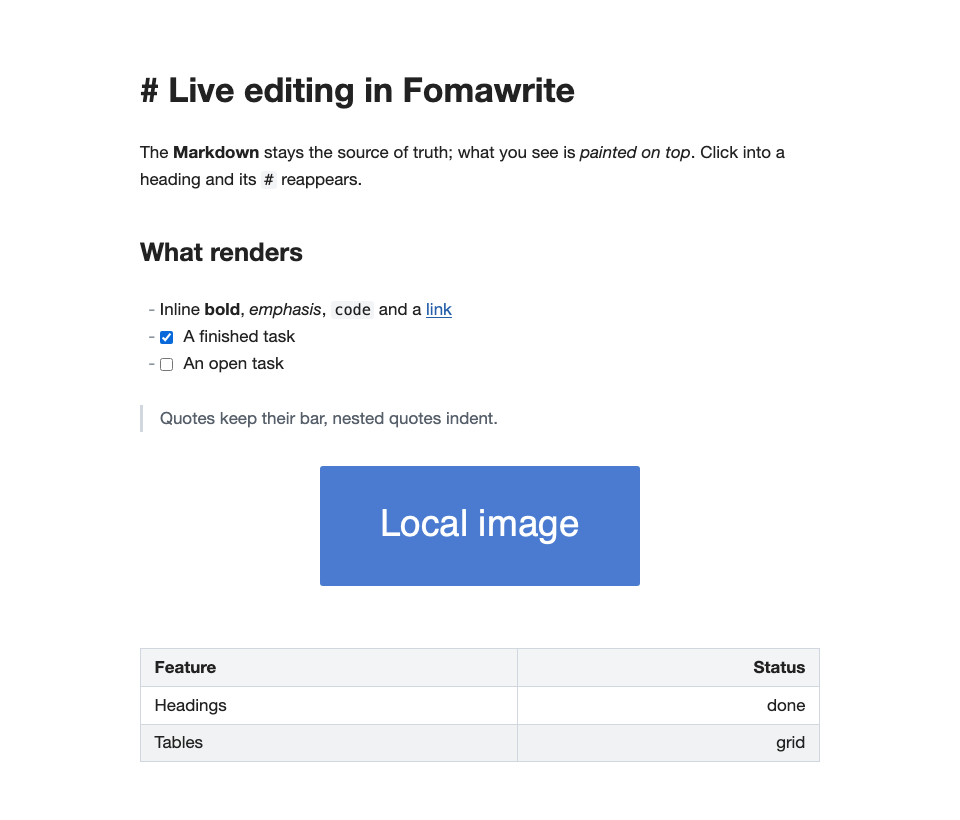
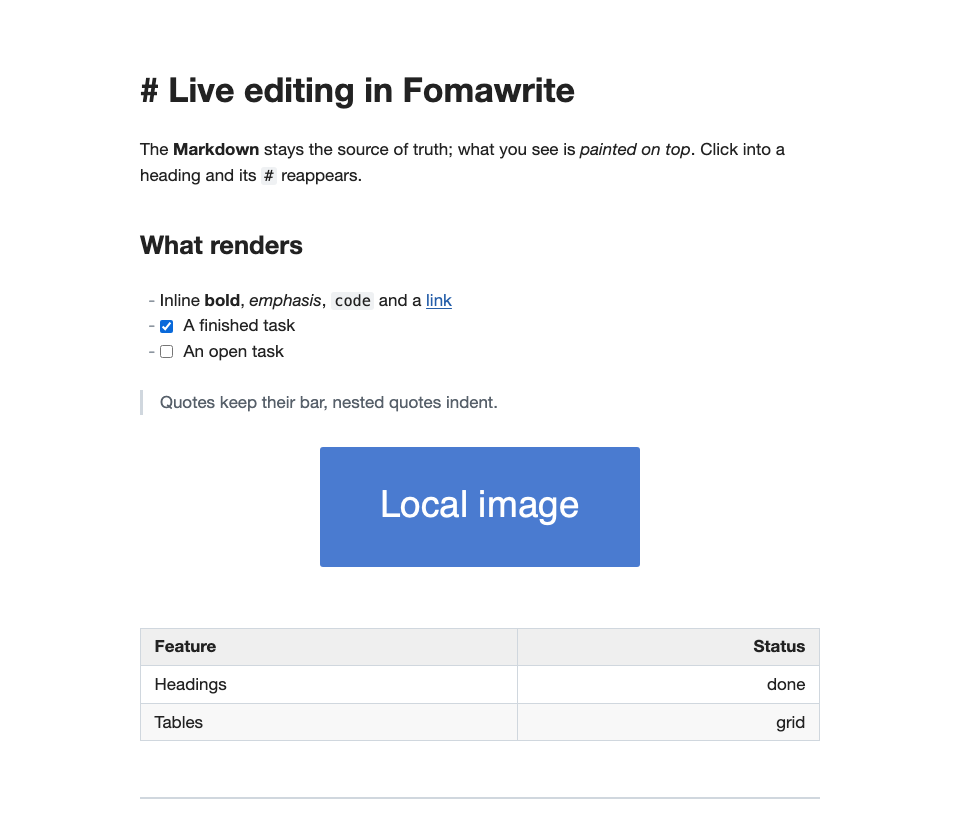
Cycles 137 and 138: Live theme fidelity, selection race, native harness; build 138 installed
137: review fixes for Cycle 136 (theme face and line height win in Live,
readability by measured background and WCAG contrast, exact mode keeps
mapped typography, tables full measure, revealed marks ignore theme
colour), ul/ol distinction, absolute sizes to em, quote spacing, a gallery
of every bundled Output Style with a contrast assertion, Live control opens
the Output Style menu, exact-theme command gated to Live.
138: Format/copy commands in Live ask the page for its current selection
(requestSelection/selectionReply) with per-document queueing and a
one-second fallback; theme-folder acceptance fixture creates its folder;
harness wrapper thresholds and resource list aligned.
Suite 212 Qt / 248 page; native document-views harness passes in full.

diff --git a/src/main.cpp b/src/main.cpp
@@ -145,7 +145,7 @@ int main(int argc, char *argv[]) {
     app.setOrganizationName(QStringLiteral("AndrewGray"));
     app.setOrganizationDomain(QStringLiteral("andrewjngray.github.io"));
     app.setApplicationDisplayName(QStringLiteral("Fomawrite"));
-    app.setApplicationVersion(QStringLiteral("0.3.0-dev33"));
+    app.setApplicationVersion(QStringLiteral("0.3.0-dev34"));
     const int documentCheck = app.arguments().indexOf(QStringLiteral("--check-document-views"));
     if (documentCheck >= 0) {
         const QString destination = app.arguments().value(documentCheck + 1);

diff --git a/research/overnight-2026-10-08/REPORT.md b/research/overnight-2026-10-08/REPORT.md
@@ -1,0 +1,43 @@
+# Overnight report — 8 October 2026
+
+Brief: run the next cycles we discussed; Fable plans, cheaper subagents build, a separate subagent reviews; install-first; a complete report by morning.
+
+## Outcome in one paragraph
+
+Three cycles landed and one build is installed: **build 138** (`0.3.0-dev34`) in `/Applications`, `dist/Fomawrite.app` and `dist/Fomawrite Dev.app`, all identical. Cycle 136 (Live follows the publishing theme, lighter) was built, reviewed, found wanting in two important ways, and fixed in Cycle 137; Cycle 138 fixed the Live selection race and the native theme-folder acceptance failures. The Qt suite is at 212, the page suite at 248, the native document-views harness passes in full for the first time since build 130, and CI is CI_STATUS. The Grammarly experiment and the Roam harness were not built: the first needs you at the keyboard, the second is still a Maybe and needs a token decision; both have notes ready.
+
+## What to try this morning (build 138 is installed)
+
+1. Open a document, switch to **Live**, and choose an Output Style from the right-hand pane. Live should take the theme's faces, colours, heading rules and quote styling but keep the editor's own column width and no decoration. Switch dark mode on: text should stay readable under every bundled style.
+2. **View → Live Follows Theme Exactly** (only enabled in Live): the theme's geometry comes back.
+3. In Live, the left footer control names the Output Style and opens the same theme menu as the right pane. Larger/Smaller act on Live too.
+4. Select a few words and immediately press ⌘B: the bold lands on what you selected, not the previous selection.
+
+## Cycle by cycle
+
+| Cycle | Built by | Reviewed by | Verdict → action |
+| --- | --- | --- | --- |
+| 136 Live follows the theme, lighter | two page agents (overlay; selector mapping) + host work by Fable | reviewer agent | Ship with fixes: host font beat a theme's body font; readability fill misfired on body-painted themes (Claude Like unreadable in dark); exact mode lost mapped typography; tables not full measure; revealed links kept theme underline; host nits. All fixed in 137. |
+| 137 Live theme fidelity | page agent (ul/ol, px→em, quote spacing, bundled-CSS robustness); fix agent for the 136 findings; gallery test by Fable | reviewer agent | **Do not ship** as first built: the seven basic presets were unreadable in dark Live (white `html` read through an opaque dark body), the revealed-link fix did not match the real DOM, dark table header under a light theme, missing `measureTheme` tests, cascade engine skipped `>`; exact-theme command gated only in the native menu. Second fix agent closed all of it; a WCAG contrast assertion on every gallery frame was red before (preset 0 dark: 1.01) and is green now. |
+| 138 Selection race and theme-folder checks | one Qt+page agent | reviewer agent | Ship with fixes: queued commands not invalidated on document swap; late reply clobbered the last cursor. Fixed by Fable with a bare-bridge test. Root cause of the harness failures: a fixture that assumed a folder the app deliberately stopped creating in Cycle 132; fixture fixed, app unchanged. |
+
+Records: [cycle-136](../cycle-136/README.md), [cycle-137](../cycle-137/README.md), [cycle-138](../cycle-138/README.md). Plan as written at 21:50: [PLAN.md](PLAN.md).
+
+## What the reviewers caught that tests had missed
+
+- A green suite with 16 gallery captures still hid unreadable dark presets, because the test only compared frames for difference. The fix was a contrast measurement on the captured pixels, which now guards every bundled style in both appearances.
+- A unit test on a fake DOM passed while the real DOM structure made the rule a no-op (revealed links). The replacement test is built from the real decoration output.
+- The page's own cascade test engine silently ignored child combinators, so an overlay rule could be asserted "applied" when it was never evaluated. It now parses `>` and throws on forms it cannot model.
+
+## Not done, and why
+
+- **Grammarly**: needs your account and eyes; ten-minute script in [grammarly-experiment.md](grammarly-experiment.md).
+- **Roam send-to-daily-note**: still a Maybe in IDEAS.md and there is no local Roam CLI or token path on this machine (the connector is a claude.ai one); feasibility and the decision you would need to make are in [roam-feasibility.md](roam-feasibility.md).
+- **Live by physical input**: still never done by a person. Build 138 is the one to try.
+
+## Process notes for you
+
+- Subagent spend: nine agents (five builders, three reviewers, one fix pass) at roughly 100–225k tokens each; Fable did planning, merges, host QML/C++ work, the gallery/contrast test, the 138 review fixes, docs and installs.
+- Two reviewers changed the outcome: without them build 137 would have shipped with unreadable dark presets and a revealed-link rule that did nothing. Keeping a separate reviewer per cycle is worth its cost.
+- One mistake of mine, caught by a reviewer: a worktree gitlink was committed twice before `.claude/` went into `.gitignore`. The second one is removed from the tree (it remains in history).
+- Open follow-ups recorded in STATUS.md: theme-set colours are not contrast-checked (a theme's own dim quote or link colour stays dim on a dark page); commands sent through other paths (undo, link panel) are not queued behind a pending selection request; Live typewriter and focus modes under the new table CSS were not visually checked.

diff --git a/ARCHITECTURE.md b/ARCHITECTURE.md
@@ -19,7 +19,7 @@ What Fomawrite is, in one line: an iA-Writer-style Source editor plus a Typora-s
 | Publishing: theme catalog and folder watching, memoized sanitized CSS, HTML/PDF generation, per-consumer async preview protocol and cache | [publisher.h](src/publisher.h), [publisher.cpp](src/publisher.cpp) | A real module since Cycle 133 (it replaced the `#include`d `backendpublishing.inc`). `Publisher` reads the document and output settings only through the `PublishingSource` interface that `Backend` implements, so publishing state cannot reach editing state. `Backend` keeps one-line forwarders (`backend.requestPublishingPreview`, `backend.publishingThemeId`, …) and relays `Publisher`'s signals under their old names; it also exposes `backend.publisher` for new callers. |
 | Top-level UI and commands | [Main.qml](src/Main.qml) (~3.2k lines), [NativeMenuBar.qml](src/NativeMenuBar.qml) (~0.5k), [WorkspaceCommands.qml](src/WorkspaceCommands.qml) | The native macOS menu bar now lives in `NativeMenuBar.qml` (Cycle 133); it is instantiated from `Main.qml`'s `Loader`, so it still resolves `win`, `backend`, the dialogs and panes through that context. `Main.qml` still holds the source editor (~800 lines), the dialogs, timers, and Markdown logic that belongs in C++ (`smartReturn`, `visualDiff`, link escaping; the [LinkSyntax.js](src/LinkSyntax.js) grammar is duplicated by a C++ regex kept in sync by hand). Remaining planned extractions: `SourceEditor.qml`, `WorkspaceSettings.qml`, one file per dialog. |
 | Pane geometry, headers/footers, visibility | [WorkspaceLayout.qml](src/WorkspaceLayout.qml), [WorkspaceHeader.qml](src/WorkspaceHeader.qml), [DocumentFooter.qml](src/DocumentFooter.qml), [WorkspaceFooter.qml](src/WorkspaceFooter.qml) | Left footer: Source / Live + writing appearance + editor zoom. Right footer: Web / PDF + Output Style + publishing zoom. Single / Split is a separate group. |
-| **Live** editing surface (Cycle 134) | [LiveEditorPane.qml](src/LiveEditorPane.qml), [editorbridge.h](src/editorbridge.h)/[.cpp](src/editorbridge.cpp), [src/editor/](src/editor/README.md) (TypeScript, CodeMirror 6, esbuild → committed `dist/editor.js`) | A CodeMirror 6 Markdown editor page hosted in a `WebEngineView` (`qrc:/editor/index.html`, strict CSP) and connected over `QWebChannel` through `EditorBridge`. While Live is active the page's document is canonical and `Backend::applyLiveChanges` mirrors its `{from,to,insert}` change lists into the `QTextDocument` byte-exactly; `Backend::forwardLiveChange` mirrors C++-side edits back. Presentation modes: Source (Manuscript/Editorial/Book/Code appearances, focus, typewriter) and Live (markers hidden until the caret enters; images via the host, task checkboxes, rules, highlighted fences, table grids, KaTeX math), themed by the same `#write` CSS as published output. Created lazily on first use via a `Loader`, then kept. Selected by `workspaceLayout.liveEditEnabled` / command `liveEditing`. |
+| **Live** editing surface (Cycle 134) | [LiveEditorPane.qml](src/LiveEditorPane.qml), [editorbridge.h](src/editorbridge.h)/[.cpp](src/editorbridge.cpp), [src/editor/](src/editor/README.md) (TypeScript, CodeMirror 6, esbuild → committed `dist/editor.js`) | A CodeMirror 6 Markdown editor page hosted in a `WebEngineView` (`qrc:/editor/index.html`, strict CSP) and connected over `QWebChannel` through `EditorBridge`. While Live is active the page's document is canonical and `Backend::applyLiveChanges` mirrors its `{from,to,insert}` change lists into the `QTextDocument` byte-exactly; `Backend::forwardLiveChange` mirrors C++-side edits back. Presentation modes: Source (Manuscript/Editorial/Book/Code appearances, focus, typewriter) and Live (markers hidden until the caret enters; images via the host, task checkboxes, rules, highlighted fences, table grids, KaTeX math), themed by the same `#write` CSS as published output. Created lazily on first use via a `Loader`, then kept. Selected by `workspaceLayout.liveEditEnabled` / command `liveEditing`. In Live the page follows the Output Style through a filtering overlay plus a selector mapping (`src/editor/src/livetheme.ts`, `thememap.ts`; View → Live Follows Theme Exactly turns the filter off). Format and copy commands in Live ask the page for its current selection first (`requestSelection` / `selectionReply`, queued per document with a one-second fallback) rather than trusting the debounced `cursorChanged`; the Q_INVOKABLE return value then means "accepted". |
 | **Right** publishing pane (read-only output) | [PublishingPreview.qml](src/PublishingPreview.qml) | Instantiated in `Main.qml` as **`previewPane`**; in `ExportHub.qml` as `exportHubPreviewPane`. See §5. |
 | Source syntax/structure | [markdownhighlighter.cpp](src/markdownhighlighter.cpp), [markdownextensions.cpp](src/markdownextensions.cpp), [EditorMutations.js](src/EditorMutations.js) | Source always shows all syntax; four appearances (Manuscript, Editorial, Book, Code). |
 | Semantic HTML / browser PDF | [publishinghtml.cpp](src/publishinghtml.cpp), [publishingpdf.cpp](src/publishingpdf.cpp), [MD4C 0.5.3](src/vendor/md4c/README.md) | MD4C → HTML; raw HTML escaped; `javascript:`/`data:` hrefs rejected; images inlined as `data:` URLs through `PublishingHtml::ImageCache`; Chromium renders Web and PDF for the pane, Export Hub and files. |

diff --git a/STATUS.md b/STATUS.md
@@ -4,10 +4,10 @@ This is the only place the current review build is recorded. Update it at the en
 
 | | |
 | --- | --- |
-| **Current review build** | `0.3.0-dev32` / macOS `0.3.0 (136)` |
-| **Last completed cycle** | 136 — Live follows the publishing theme, lighter ([record](research/cycle-136/README.md)), 8 October 2026 |
-| **Regression suite** | **208 passed, 0 failed, 0 skipped** (`./bin/test`, offscreen Qt 6.11.2, Apple Silicon); editor page **202 passed** (`cd src/editor && npm test`). Two known Qt Material `SplitView` null-parent warnings in `savesAndOpensFromFooterMenu`. |
-| **Packaged bundles** | `dist/Fomawrite.app`, `dist/Fomawrite Dev.app` and `/Applications/Fomawrite.app` are all at build **136** ([manifest](research/cycle-136/verified-builds.json)); the stale Omawrite bundles were removed from `dist/`. **Refresh with the app closed:** `./bin/package-mac && ./bin/prepare-dev-app && ./bin/install-mac`. |
+| **Current review build** | `0.3.0-dev34` / macOS `0.3.0 (138)` |
+| **Last completed cycle** | 138 — Live selection race and native theme-folder checks ([record](research/cycle-138/README.md)); 137 — Live theme fidelity ([record](research/cycle-137/README.md)); both overnight 8 October 2026 |
+| **Regression suite** | **212 passed, 0 failed, 0 skipped** (`./bin/test`, offscreen Qt 6.11.2, Apple Silicon); editor page **248 passed** (`cd src/editor && npm test`). Two known Qt Material `SplitView` null-parent warnings in `savesAndOpensFromFooterMenu`. |
+| **Packaged bundles** | `dist/Fomawrite.app`, `dist/Fomawrite Dev.app` and `/Applications/Fomawrite.app` are all at build **138** ([manifest](research/cycle-138/verified-builds.json)); the stale Omawrite bundles were removed from `dist/`. **Refresh with the app closed:** `./bin/package-mac && ./bin/prepare-dev-app && ./bin/install-mac`. |
 | **CI** | [`.github/workflows/ci.yml`](.github/workflows/ci.yml): macOS, pinned Qt 6.11.3, `./bin/build && ./bin/test`. First run proved the pipeline but was red on four runner-only UI-click tests; Cycle 134 root-caused one (a viewport-transition timer stealing focus) and hardened the click helper for the other three — see the Actions tab for the run after `e07f727`. |
 | **Baseline reviewed** | [INDEPENDENT_REVIEW.md](INDEPENDENT_REVIEW.md) (6 October 2026). C1–C6 closed by Cycle 131; A1–A8/E4 by Cycle 132; P1 and part of §4 by Cycle 133; the §6 direction question answered by Cycle 134. |
 
@@ -29,7 +29,7 @@ Measured: 1 MiB document loads in ~55 ms; one keystroke on it mirrors in ~75 ms 
 
 ## Open
 
-- **Native acceptance**: `bin/check-document-views` ran against the build-135 release bundle on 7 October (first run since build 130; it had been broken since Cycle 133 by a stale `PreviewPane.qml` entry in its resource list). All footer, daily-writing, pane-zoom, editor, editing-layout and pane-chrome checks passed, including the steps that now drive Live. Three of twelve publishing-theme checks failed in the theme-folder fixture family ("Cannot create disposable folder themes"); not Live related, open. `bin/check-publishing-startup` passed (cold and restored) on 7 October. The Live editor has still not been driven by physical input.
+- **Native acceptance**: `bin/check-document-views` passes in full against the build-138 release bundle (8 October): 124 footer states, 5 daily-writing, 5 pane-zoom, 5 editor, 12 publishing-theme checks, the three theme-folder checks included (Cycle 138 fixed the fixture; the wrapper's stale thresholds and resource list were aligned). `bin/check-publishing-startup` passed (cold and restored) on 7 October. The Live editor has still not been driven by physical input.
 - **Live editor limits**: no Mermaid; pasted images go to `images/` beside a *saved* document (an untitled document refuses with a notice); authorship marks invisible in Live; Live links use the page's own panel (label/URL/title, edit/remove), not the Source dialog; images and footnote references inside table cells show as text; `plaintext`/unknown fences unhighlighted by design; the page's selection is reported with a 30 ms debounce, so a Format command issued within 30 ms of a selection change may use the previous selection.
 - **App bug found by the CI work**: a viewport-transition timer can steal focus from an auxiliary field (e.g. the link editor label) right after it opens — fixed in the test's sequencing, now fixed in the app as well (`viewportTransitionKeepsAuxiliaryFocus`, red/green).
 - **Decisions for Andrew**: Mermaid (+2.5 MB)? Drop C/C++/PHP/Rust grammars (−280 KB)? Spell check in Live (WebEngine dictionaries)?

diff --git a/research/cycle-138/README.md b/research/cycle-138/README.md
@@ -1,0 +1,23 @@
+# Cycle 138 — native theme-folder checks and the Live selection race (overnight, 8 October 2026)
+
+**Build:** `0.3.0-dev34` / macOS `0.3.0 (138)`. **Plan:** [research/overnight-2026-10-08/PLAN.md](../overnight-2026-10-08/PLAN.md). Builder: one Qt+page agent (Sonnet); reviewer: separate agent; planning: Fable.
+
+## What changed
+
+| Finding | Root cause | Change |
+| --- | --- | --- |
+| Three `bin/check-document-views` publishing-theme checks failed since Cycle 132 ("Cannot create disposable folder themes", "Cannot restore folder fixture theme", "Theme folder menu did not open for previewThemeImport") | Cycle 132 (commit `41d1ba1`, carried into `Publisher::watchThemes`) deliberately stopped creating `<AppData>/publishing-themes` on startup so a writer who moved the folder aside never finds an empty replacement; the harness runs in an empty isolated app-data directory, and the fixture's `writeTheme` wrote into the folder without creating it. | The fixture now creates the folder first (`QDir().mkpath`), as every Qt test that uses the folder already did. The app is unchanged; its behaviour is deliberate and tested. |
+| Live selection race: the page reports its selection with a 30 ms debounce, so a Format command issued within that window acted on the previous selection | Host operations read `EditorBridge::lastSelectionStart()/End()` | New bridge pair `requestSelection(token)` (host→page) / `selectionReply(token, anchor, head)` (page→host, read from the editor state at the moment of the request). `Backend::liveWrapSelection`, `liveReplaceSelection`, `liveEditMarkdown` and `liveCopySelection` queue the command (FIFO, one request in flight), apply it in the reply, fall back to the last reported selection if no reply arrives within one second, and keep the synchronous path when the page is not ready. Public signatures unchanged; the return value now means "accepted". |
+
+## Verification
+
+- Red/green: with the old `backend.cpp` and the new tests, `liveFormatCommandUsesTheSelectionMadeJustBefore` produced `****one two three` instead of `one **two** three`, and `liveSelectionRequestFallsBackWhenThePageDoesNotAnswer` saw no request sent; both pass with the fix (the race test passed 8 of 8 repeated runs).
+- Qt suite: **212 passed, 0 failed, 0 skipped**; page: **248 node tests** (`test/selection.test.mjs` added).
+- Native harness: the app's own report passes (`passed: true`, 124 footer states, 12 publishing-theme checks). The wrapper script `bin/check-document-views` still exits 1 on four stale checks of its own: thresholds of ≥7 daily-writing and ≥6 editor acceptance checks (left over from before Cycle 135 retired Visual Edit's checks), a missing embedded hash for `NativeMenuBar.qml` in `documentviewcheck.cpp`'s resource list, and the unsigned `build/` app. Fixed in this cycle: thresholds lowered to the five checks each category has had since Visual Edit was retired, `NativeMenuBar.qml` added to the embedded-hash list; the signature check is expected to fail for the unsigned `build/` app and passes for `dist/`.
+- Review: verdict ship with fixes. Medium: queued commands were never invalidated when the document was swapped or the page reloaded; low: a late reply overwrote the last-known selection after the fallback had applied the edit. Both fixed: each queued operation carries the document generation (bumped by `syncLiveEditor` and on load) and is dropped if it differs; the bridge accepts a `selectionReply` only for the request still in flight and the fallback cancels it. Test `liveQueuedCommandsDropOnDocumentSwapAndIgnoreLateReplies`. Lows left open and documented: commands sent through other paths (undo, `runCommand`) are not queued behind a pending request; a mode switch within milliseconds of a Format command may not carry the caret.
+- Bundles: `dist/Fomawrite.app`, `dist/Fomawrite Dev.app` and `/Applications/Fomawrite.app` all at build 138 ([verified-builds.json](../cycle-138/verified-builds.json)), installed 8 October 22:40 with the app closed; `bin/check-document-views` passes in full against the release bundle.
+
+## Limits
+
+- The one-second fallback is a judgement call: a page that is alive but slow would see the command applied at the last reported selection.
+- `liveCopySelection` with a collapsed selection now returns true ("accepted") and copies nothing.

diff --git a/CHANGELOG.md b/CHANGELOG.md
@@ -4,6 +4,8 @@ One line per cycle, newest first. Each line links to the cycle's record under `r
 
 ## 0.3.0 development series (Cycles 97–)
 
+- **138** — Live selection race and native theme-folder checks (`0.3.0-dev34`, build 138, overnight 8 Oct): Format/copy commands in Live ask the page for its current selection (`requestSelection`/`selectionReply`) instead of the debounced report, queued per document with a one-second fallback; the theme-folder acceptance fixture creates the folder the app deliberately stopped creating in Cycle 132; harness wrapper thresholds and resource list aligned. [Record](research/cycle-138/README.md)
+- **137** — Live theme fidelity (overnight 8 Oct, shipped with 138): review fixes for Cycle 136 (theme face and line height win over the host's in Live, readability by measured background and WCAG contrast, exact mode keeps mapped typography, tables full measure, revealed marks ignore theme colour), `ul`/`ol` distinction, absolute sizes converted to `em` against the theme or root size, quote spacing, a gallery of every bundled Output Style in filtered Live with a contrast assertion. [Record](research/cycle-137/README.md)
 - **136** — Live follows the publishing theme, lighter (`0.3.0-dev32`, build 136, 8 Oct): the Live page applies the Output Style CSS through an editing overlay that keeps typography and neutralises layout, maps the theme's element rules onto Live's lines, ignores the Source appearances in Live, fills unreadable colours from the palette; View → Live Follows Theme Exactly as the escape hatch; the left control names the Output Style in Live. [Record](research/cycle-136/README.md)
 - **135** — Visual Edit retired, builds aligned (`0.3.0-dev31`, build 135, 7 Oct): `VisualEditPane.qml`, the bounded `SourceVisualMapping` and `VisualTextHighlighter` removed with their Backend API, footer option, menus, workspace flag (a saved Visual Edit choice restores as Live) and the mapper/visual test suites; native acceptance steps drive Live; new `bin/install-mac`; `dist/` and `/Applications` bundles refreshed to 135 and the stale Omawrite bundles removed. [Record](research/cycle-135/README.md)
 - **134** — the Live editor (`0.3.0-dev30`, build 134, overnight 6–7 Oct): CodeMirror 6 editor page hosted in the app's WebEngineView over QWebChannel (`src/editor/`, `EditorBridge`, `LiveEditorPane.qml`); byte-exact two-way mirror with the canonical document; Live mode (inline marks, images, tasks, rules, highlighted fences, table grids, KaTeX math), Source/Code appearances with focus and typewriter; theme pass-through, scroll sync, cursor carry-over, Format/Undo/Find routed to the page, footer Live option, outline navigation into Live, image paste/drop saved beside the document (refusals shown as a notice), in-page link editor, inline math inside table cells, the Edit menu acting on the page (clipboard, copy formats, Paste As), mirror recovery from out-of-range host changes, curated fence languages (bundle 1.9 → 1.4 MB), footnotes/TOC/front matter; measured 1 MiB load ~55 ms; screenshots in the record; per-process test app data; CI click flakes root-caused and a focus-steal app bug fixed. [Record](research/cycle-134/README.md)

diff --git a/research/cycle-137/README.md b/research/cycle-137/README.md
@@ -1,6 +1,6 @@
 # Cycle 137 — Live theme fidelity (overnight, 8 October 2026)
 
-**Build:** `0.3.0-dev33` / macOS `0.3.0 (137)`. **Plan:** [research/overnight-2026-10-08/PLAN.md](../overnight-2026-10-08/PLAN.md). Builder: page agents (Sonnet); reviewer: separate agent; planning and host work: Fable.
+**Build:** shipped together with Cycle 138 as `0.3.0-dev34` / macOS `0.3.0 (138)` (one install for both overnight cycles). **Plan:** [research/overnight-2026-10-08/PLAN.md](../overnight-2026-10-08/PLAN.md). Builder: page agents (Sonnet); reviewer: separate agent; planning and host work: Fable.
 
 ## What changed
 
@@ -13,10 +13,10 @@
 
 ## Verification
 
-- Qt suite: **QT_COUNT passed, 0 failed, 0 skipped**. New: `liveThemeGalleryCapturesEveryBundledStyle`.
-- Editor page: **229 node tests** (up from 202 at the start of the night): mapping and overlay rules, the cascade engine tests for the font fallback (a small CSS cascade resolver over the real `editor.css`, which reproduced the Cycle 136 font bug on the old stylesheet), readability by contrast incl. a property test that every fill reads at 4.5:1, bundled-CSS robustness.
-- Reviews: REVIEW_STATUS
-- Bundles: BUNDLE_STATUS
+- Qt suite: **212 passed, 0 failed, 0 skipped**. New: `liveThemeGalleryCapturesEveryBundledStyle`.
+- Editor page: **248 node tests** (up from 202 at the start of the night): mapping and overlay rules, the cascade engine tests for the font fallback (a small CSS cascade resolver over the real `editor.css`, which reproduced the Cycle 136 font bug on the old stylesheet), readability by contrast incl. a property test that every fill reads at 4.5:1, bundled-CSS robustness.
+- Reviews: the Cycle 136 reviewer (verdict: ship with fixes) found the host-font override, the readability misfire, exact mode losing typography, tables not full measure and smaller items; all fixed here. The Cycle 137 reviewer (verdict: do not ship) then found the bundled presets unreadable in dark Live (a white `html` background read through an opaque dark `body`), the revealed-link rule not matching the real DOM, the dark table header under a light theme, missing `measureTheme` tests and a cascade engine that silently skipped child combinators, and the exact-theme command gated only in the native menu; all fixed before this build, with a WCAG contrast assertion (≥ 3:1 on the heading and body regions of every gallery frame) that was red on the unfixed page (preset 0 dark: 1.01) and is green now.
+- Bundles: `dist/Fomawrite.app`, `dist/Fomawrite Dev.app` and `/Applications/Fomawrite.app` all at build 138 ([verified-builds.json](../cycle-138/verified-builds.json)), installed 8 October 22:40 with the app closed; `bin/check-document-views` passes in full against the release bundle.
 
 ## Limits
 
